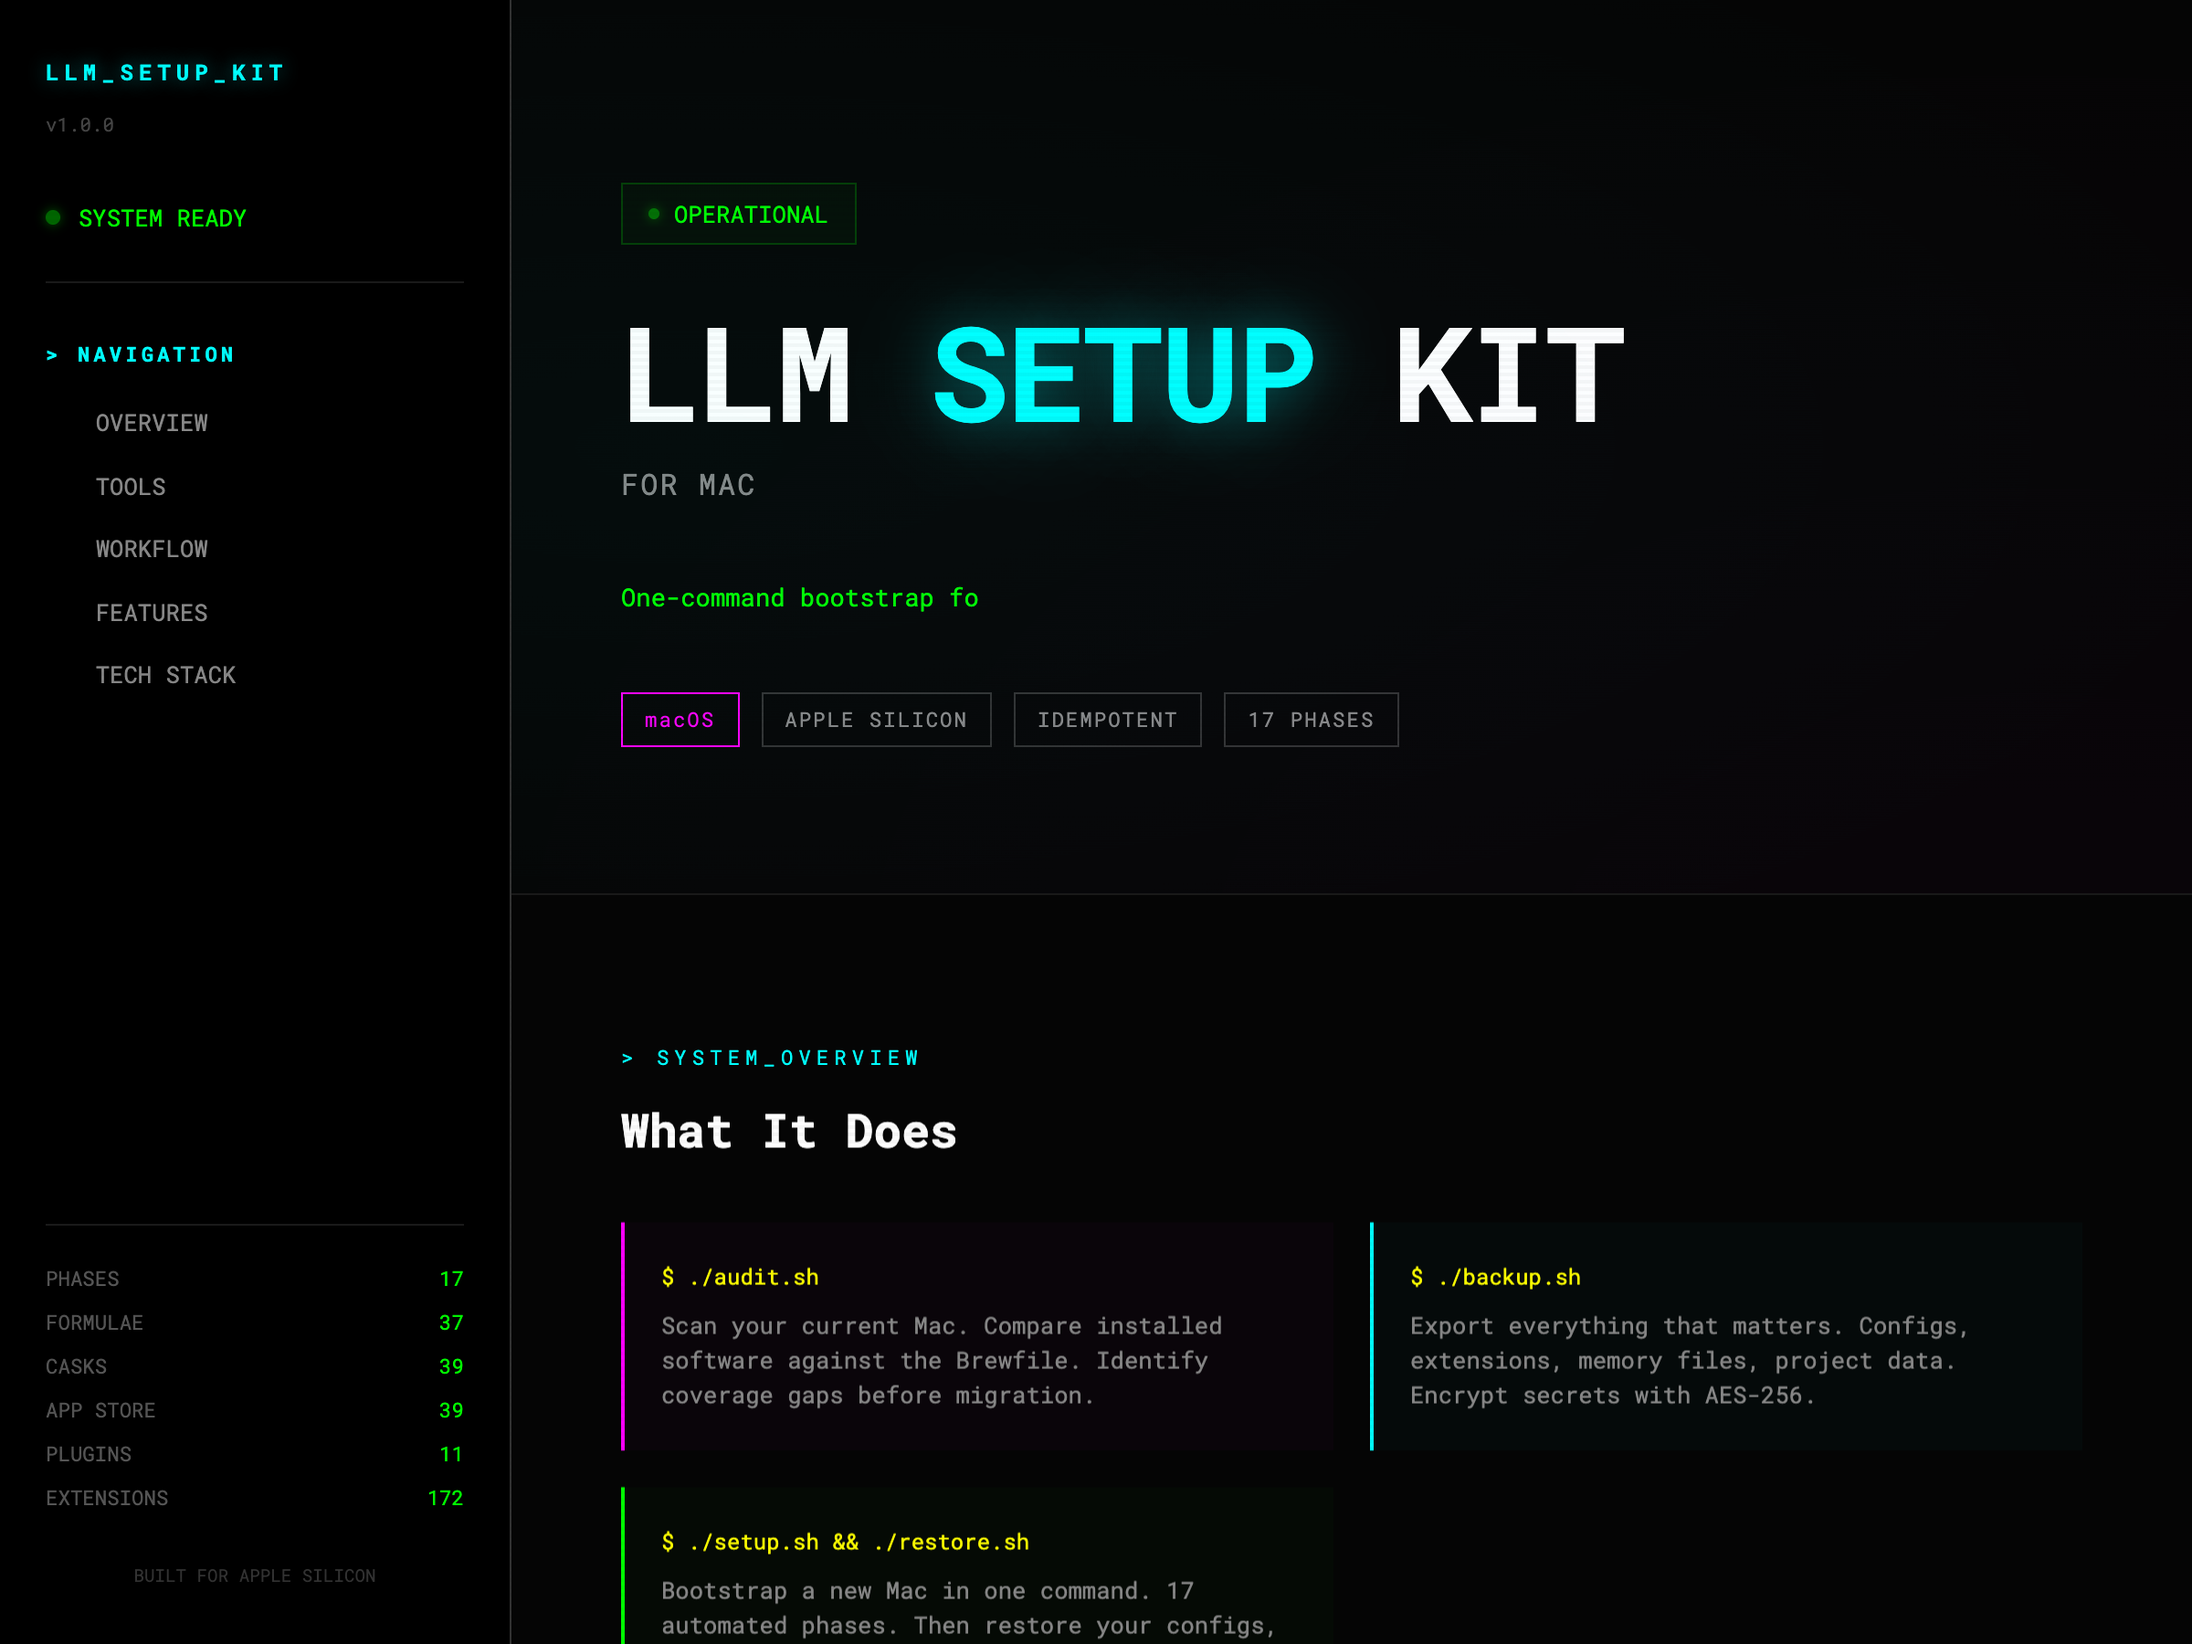
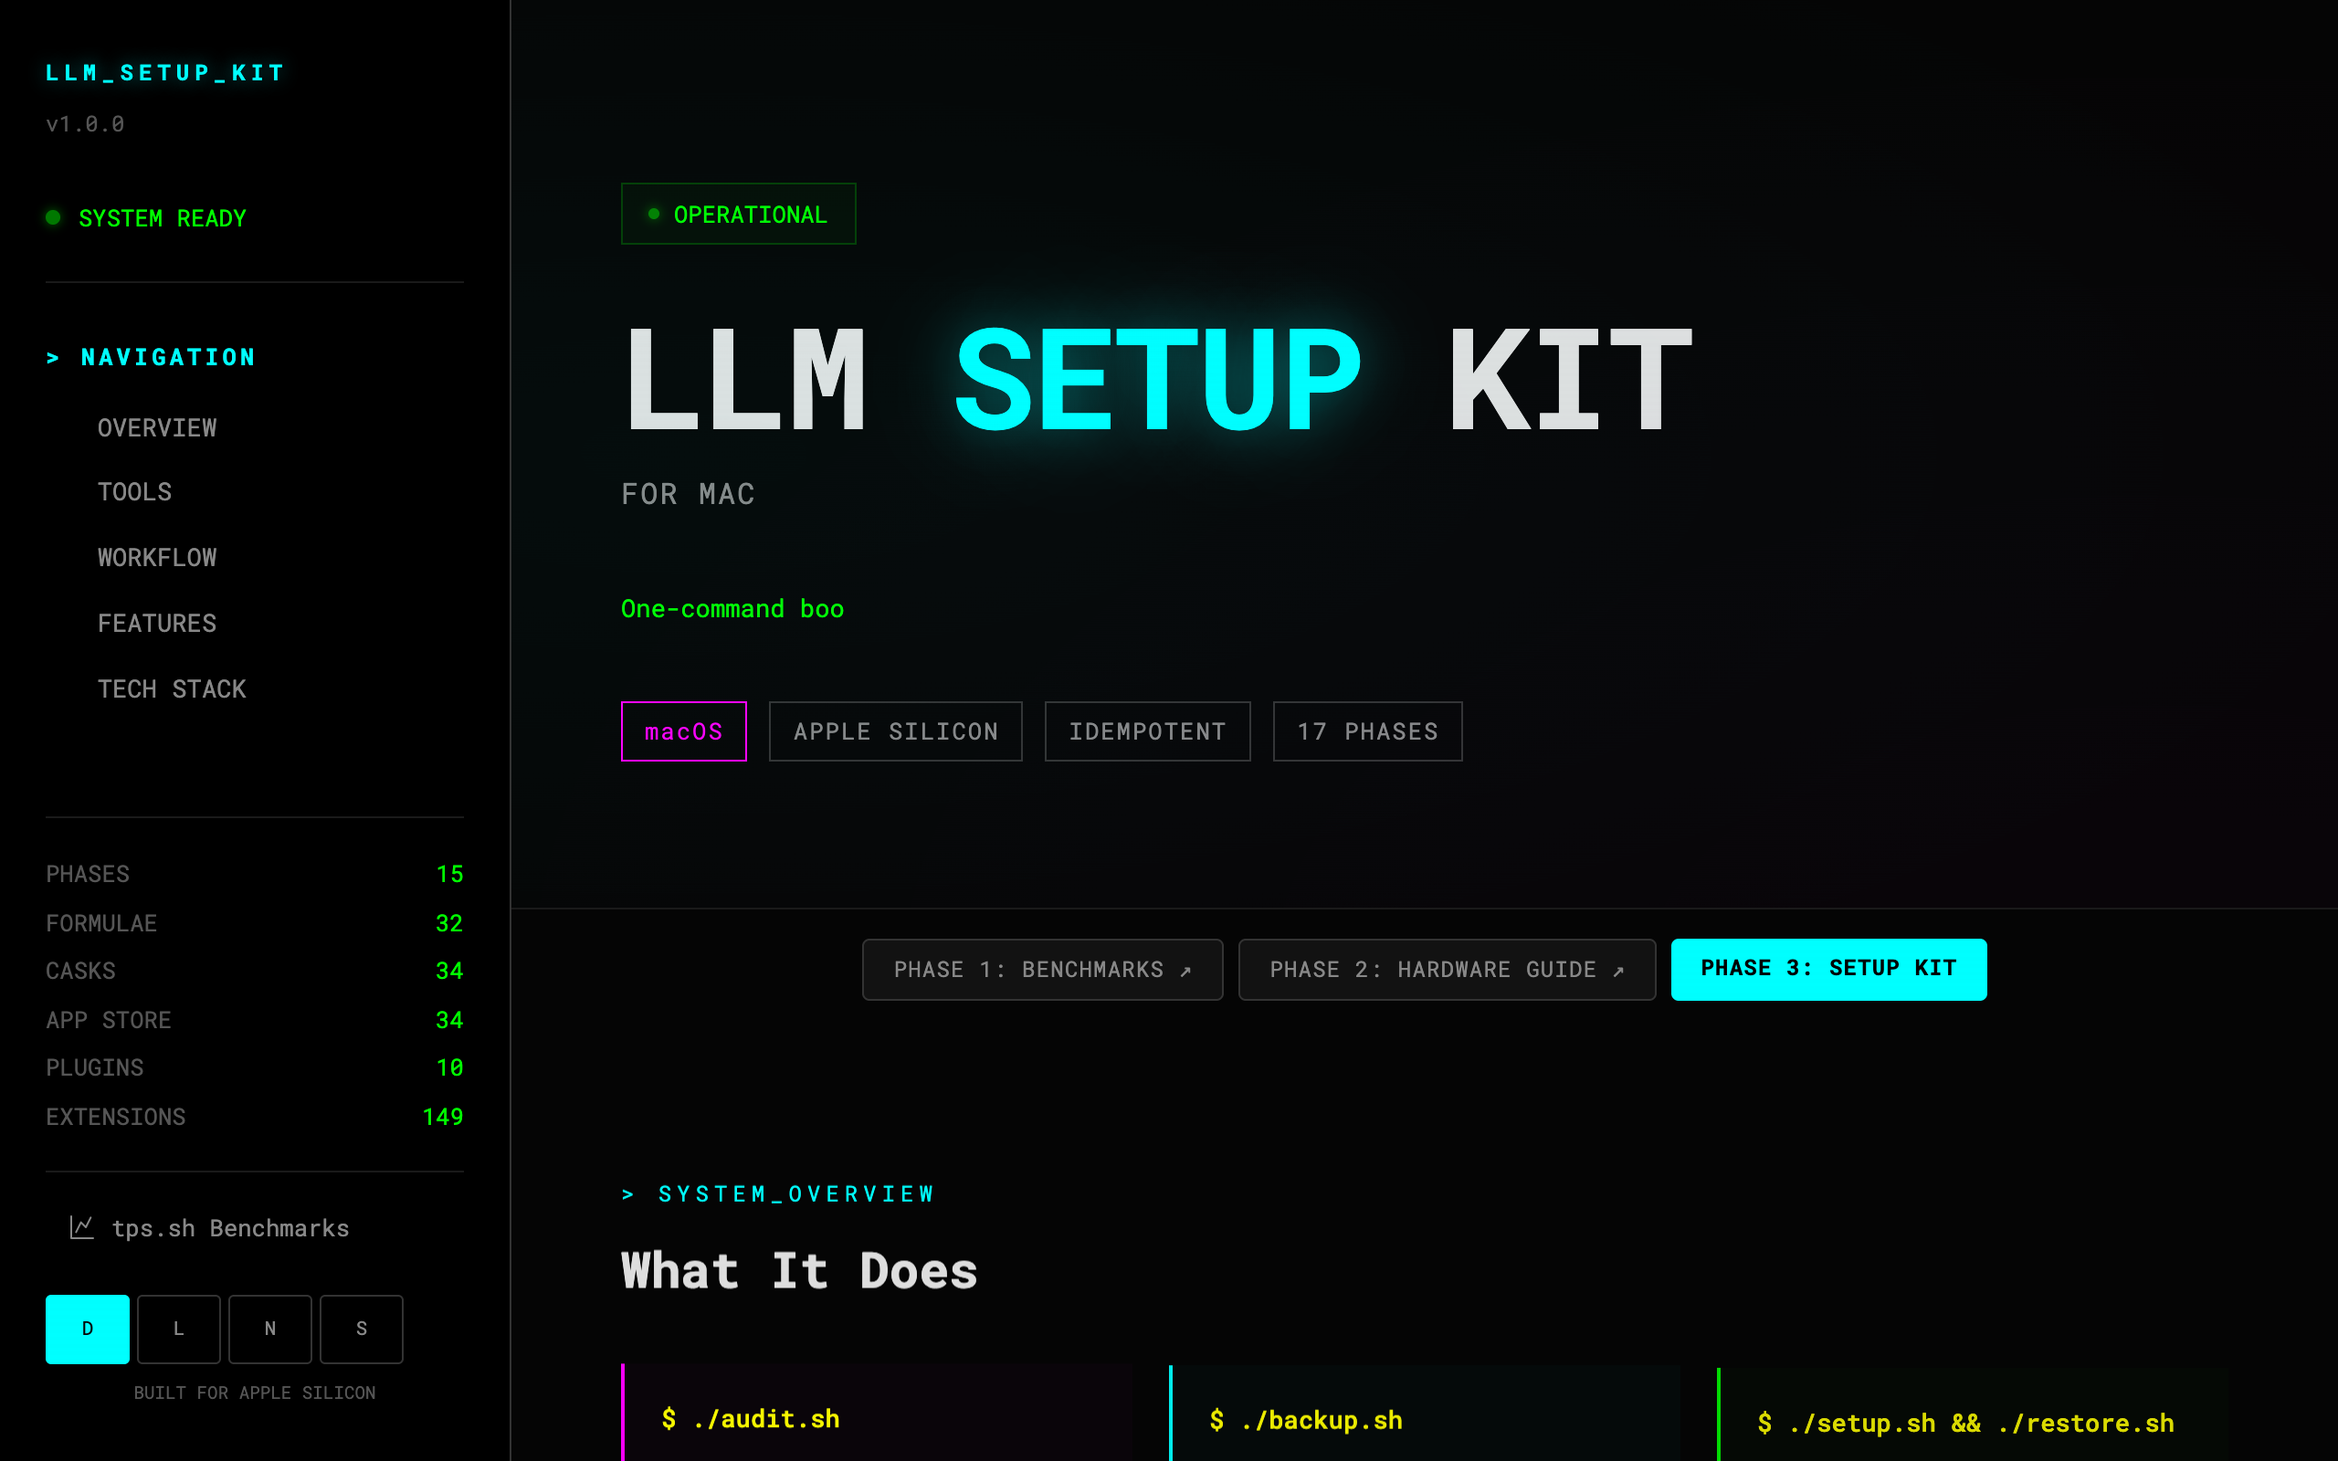
Update screenshot and fix GitHub URLs
- New dark-mode screenshot showing phase bar and current branding
- Fix GitHub keyboard shortcut and command palette URLs
  (mac-setup → LLM-Setup-Kit-for-Mac)

diff --git a/docs/index.html b/docs/index.html
@@ -2474,7 +2474,7 @@ function updateThemeButtons(active) {
 
     if (e.key === 'g' || e.key === 'G') {
       if (!e.metaKey && !e.ctrlKey && !e.altKey) {
-        window.open('https://github.com/parsamivehchi/mac-setup', '_blank');
+        window.open('https://github.com/parsamivehchi/LLM-Setup-Kit-for-Mac', '_blank');
         return;
       }
     }
@@ -2617,7 +2617,7 @@ function openCommandPalette() {
   commands.push({
     cat: 'LINK',
     name: 'Open GitHub Repository',
-    action: function() { window.open('https://github.com/parsamivehchi/mac-setup', '_blank'); }
+    action: function() { window.open('https://github.com/parsamivehchi/LLM-Setup-Kit-for-Mac', '_blank'); }
   });
 
   commands.push({
